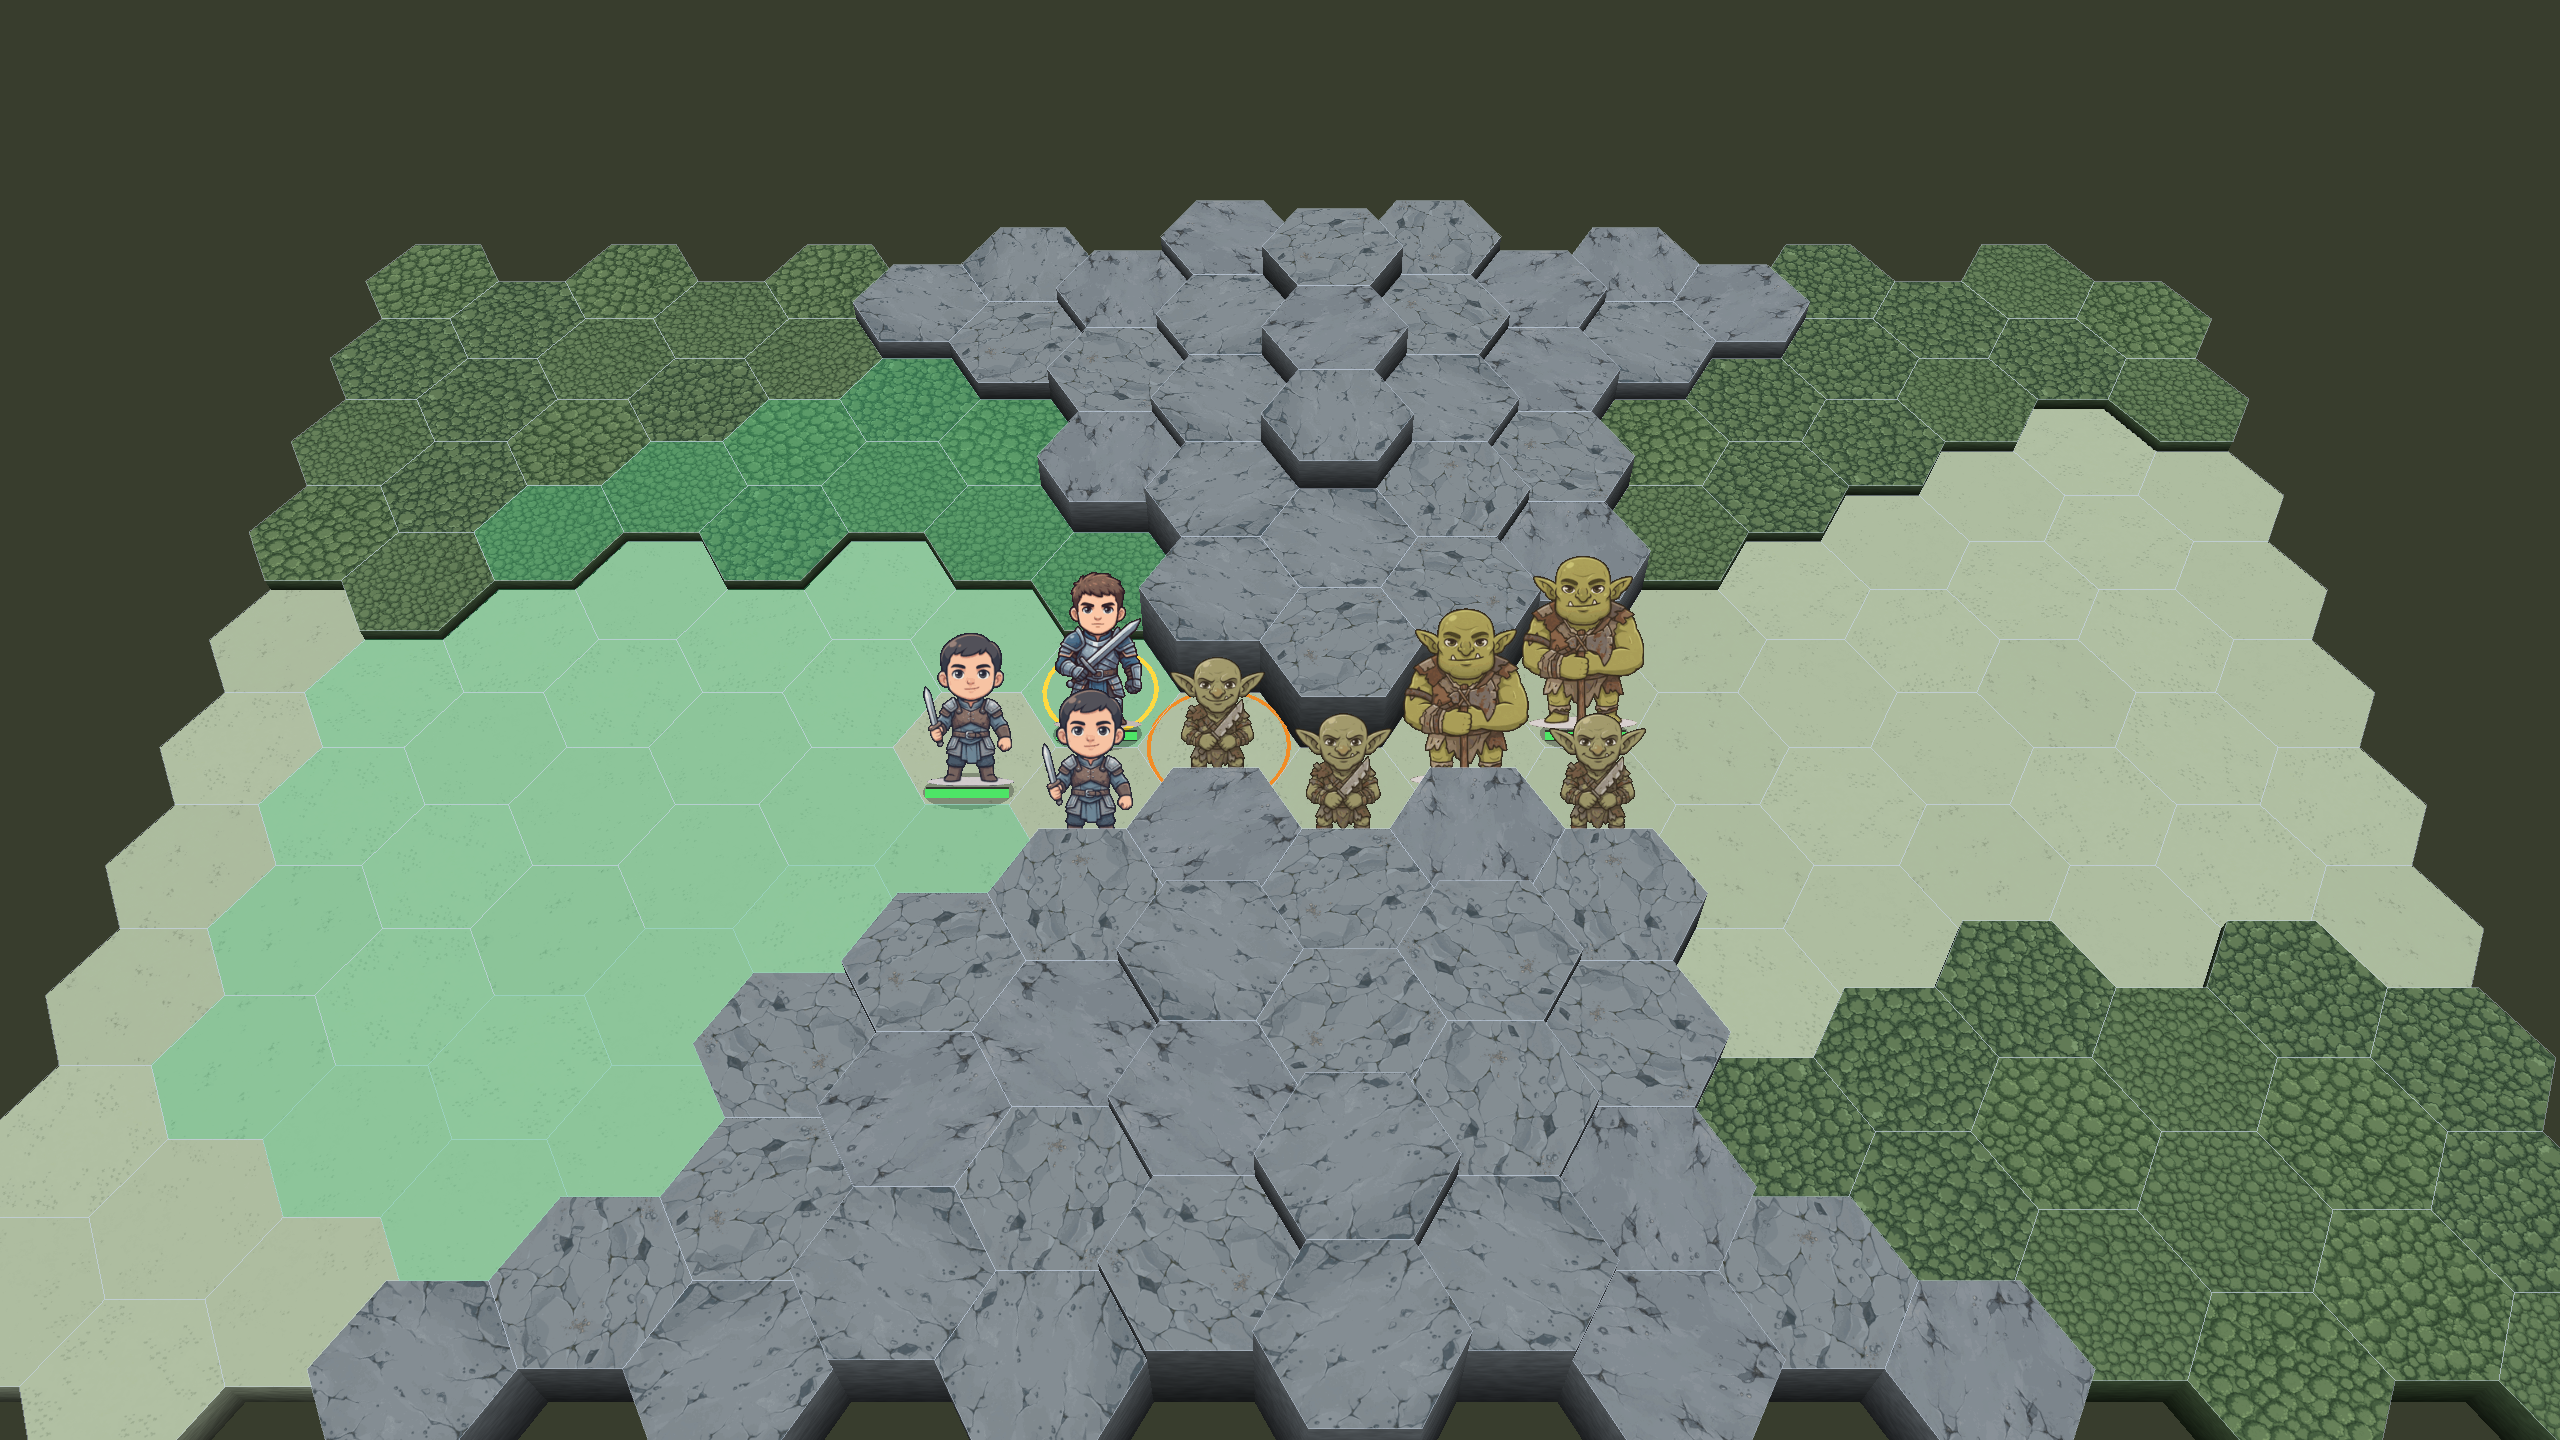
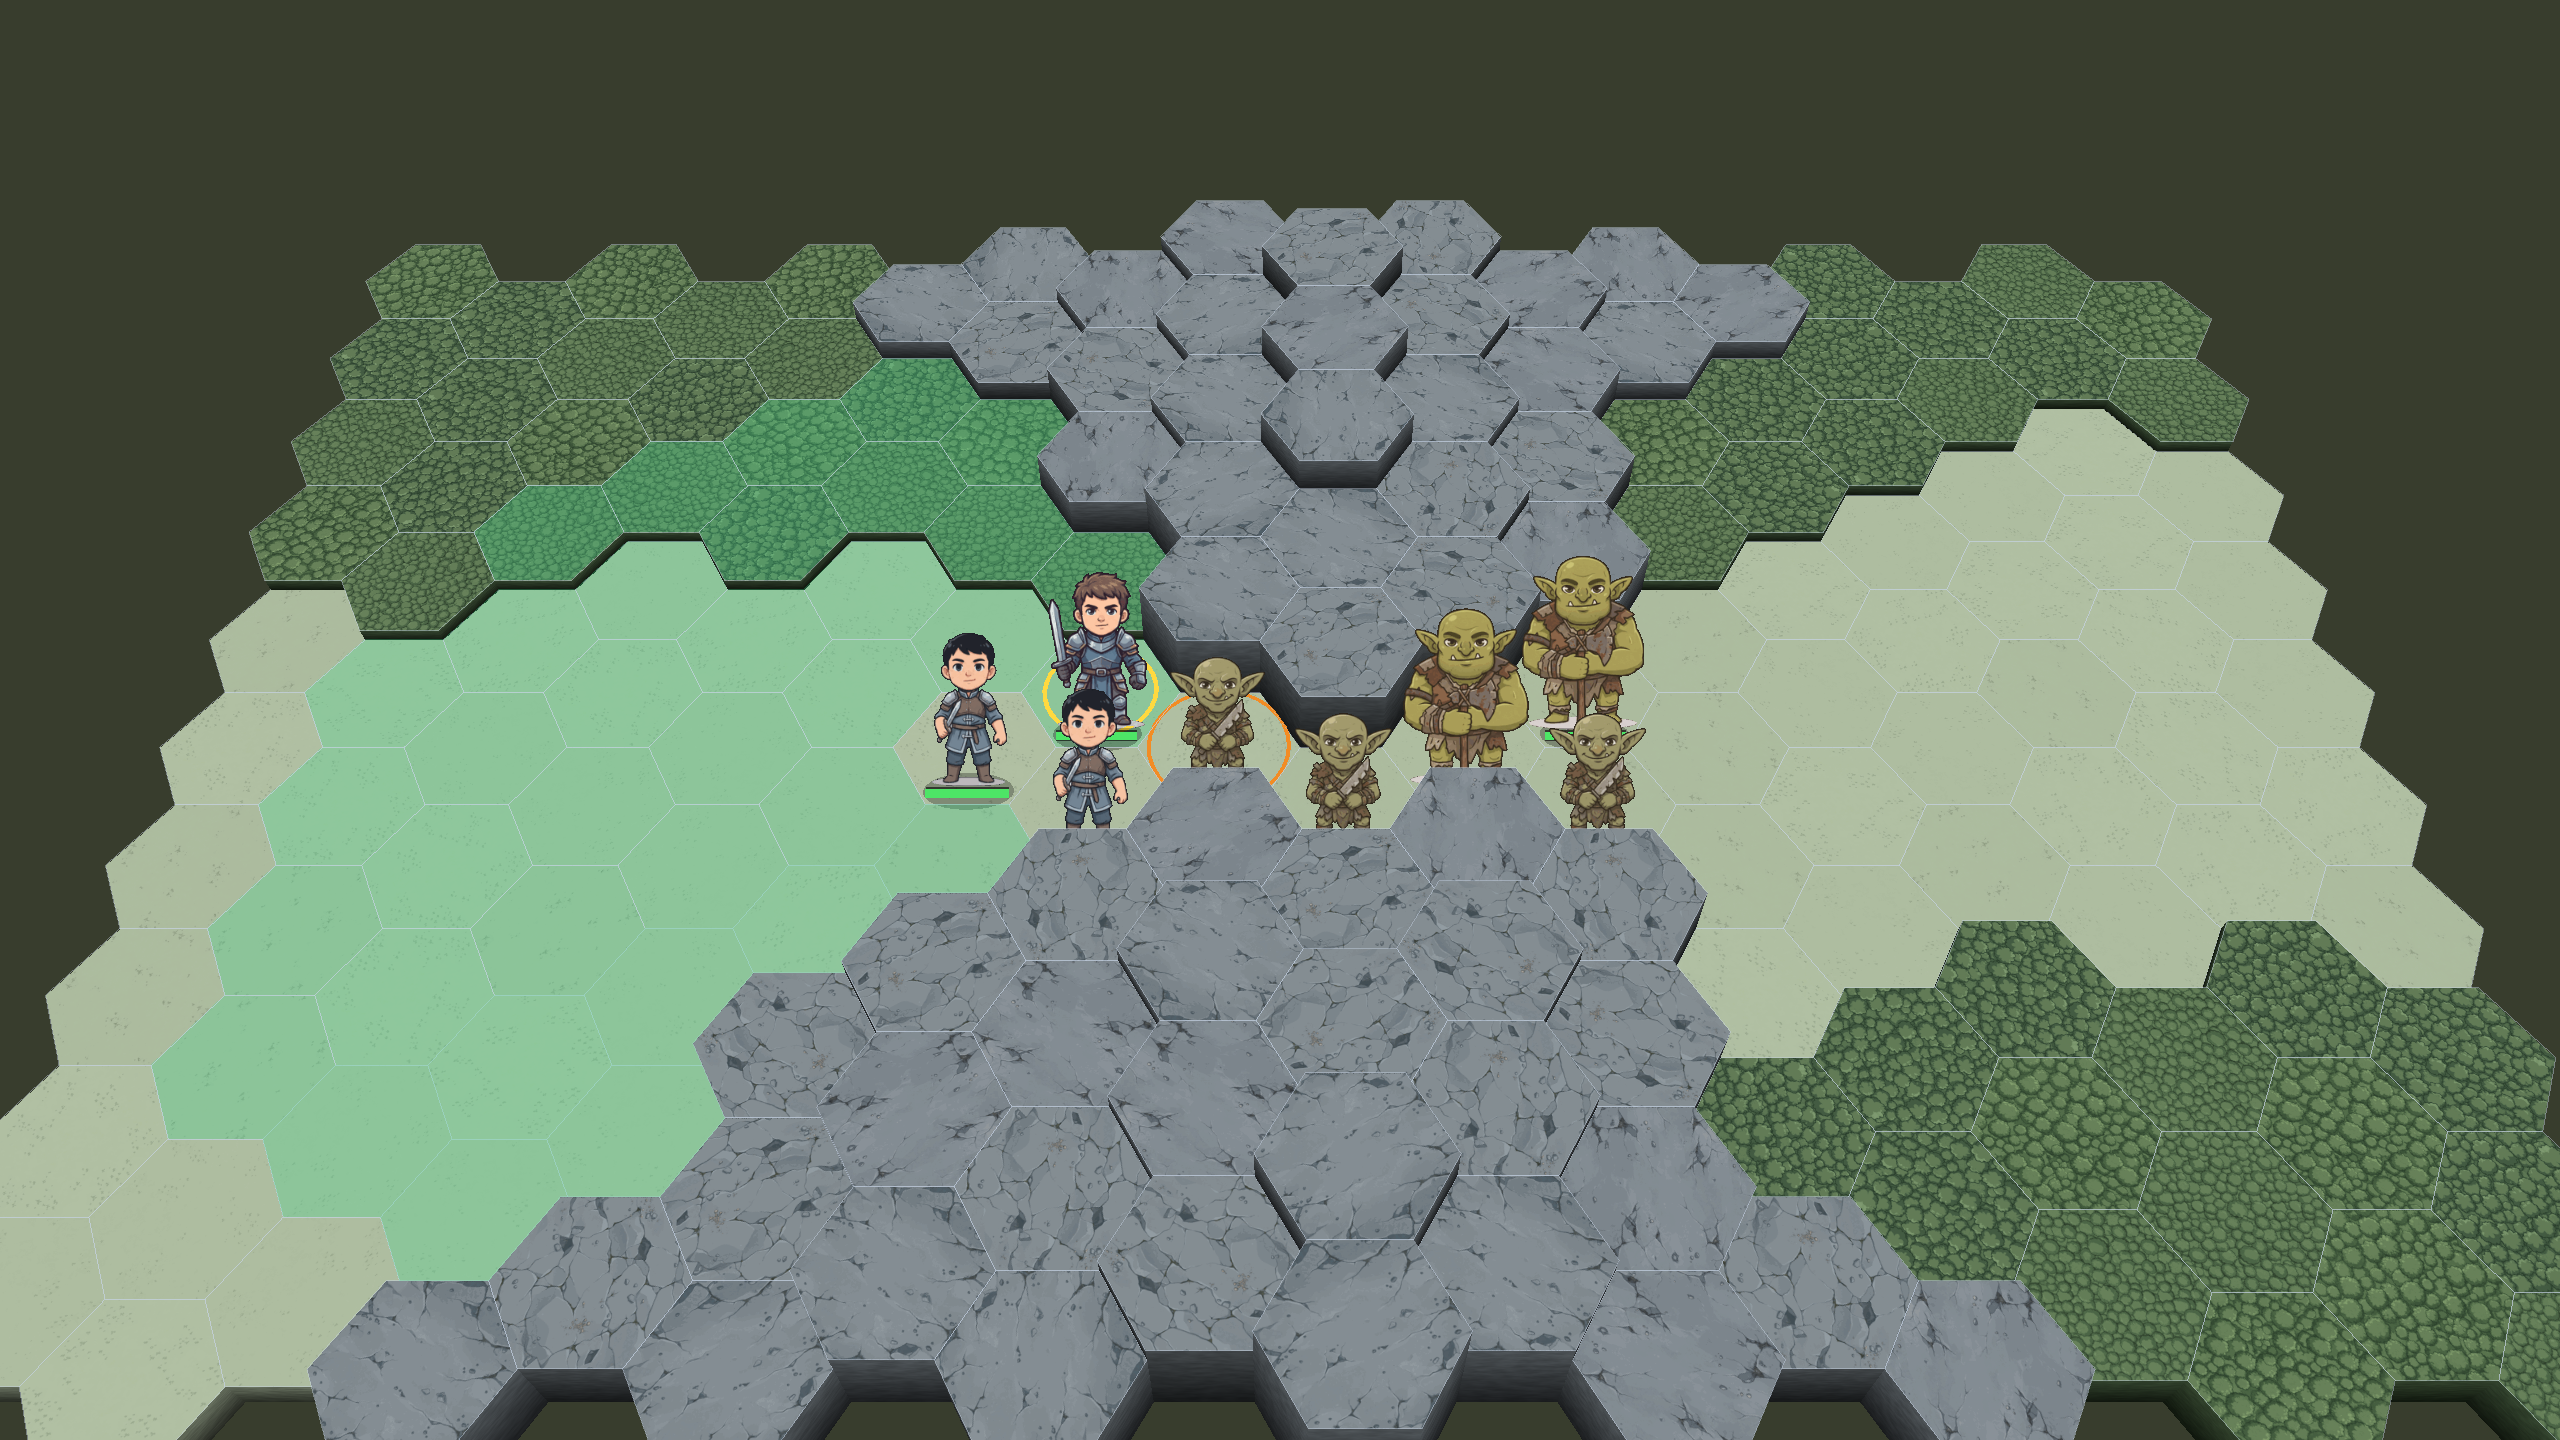
feat(devlog): 1本目の画像1を撮り直し、腕試しステージの記述を Bounties に合わせる
- 描き直したファイター・ノービスで盤の全景を撮り直し
- 腕試しは独立した板（Bounties ボード）の1本目になったので、
  本文にその一言を足す＝以後の更新で2本目を語れる

Changed region(s): [[0.3438, 0.4062, 0.4688, 0.5938]]

diff --git a/channels/itch/devlog/2026-08-24-why-no-dice.md b/channels/itch/devlog/2026-08-24-why-no-dice.md
@@ -17,7 +17,7 @@
 3. 引き算その1：だからサイコロが無い。同じ攻撃は毎回同じ結果。
 4. 引き算その2：だから生産も無い。配られた駒で戦い、失った駒は戻らない。
 5. 残るもの＝位置取り：包囲（Encircled）・支援・地形。チュートリアル1で教える範囲だけを挙げる。
-6. 期待値の設定：今出す体験版はチュートリアル「The Goblin Raid」＝1ステージ1要素で教える章なので、とても簡単。ただし腕試しに、既出の要素だけで組んだ難易度高めのステージを1本入れてある（実体は feature-81 で作る。ビルドに入っていることが公開の前提）。章ができるたびにビルドへ足していく。
+6. 期待値の設定：今出す体験版はチュートリアル「The Goblin Raid」＝1ステージ1要素で教える章なので、とても簡単。ただし腕試しに、既出の要素だけで組んだ難易度高めのステージを1本入れてある。これは物語を持たない単発の板＝Bounties ボード（[roadmap.md](../../../doc/campaign/roadmap.md)）の1本目なので、「板の1本目」であることまで言う＝以後の更新で2本目を語れる。章ができるたびにビルドへ足していく。
 7. 締め：名前の由来＝ラテン語 senarius（6つ一組）＝敵を囲む隣接6ヘックス。次の章ができたらビルドと devlog を更新する。
 
 注意：chess problem の語は「解が1つ」の期待を作りすぎない範囲で使う（marketing.md のタグの節＝Puzzle の期待外れ問題と同じ理屈）。ステージが一本道の詰めではないことは、言い訳がましく否定せず、feels like / closer to の距離感で言う。
@@ -50,7 +50,7 @@ The second is production. There are no factories and no build queues. Both sides
 
 Take away dice and production, and what remains is position. Surround an enemy and it crumbles — the game calls that state Encircled, and it is the heart of Senaris. Stand allies next to each other and they hold. Terrain tilts every exchange. All of it is on the board, and all of it can be read before you commit to anything.
 
-About the demo: the first build is the opening campaign, "The Goblin Raid". It is a tutorial — each stage teaches one idea — so it is, frankly, very easy. That is by design; it exists to hand you the vocabulary. For anyone who wants an actual fight, the build also includes one extra stage built from the same pieces, tuned to hurt. That one is the real pitch.
+About the demo: the first build is the opening campaign, "The Goblin Raid". It is a tutorial — each stage teaches one idea — so it is, frankly, very easy. That is by design; it exists to hand you the vocabulary. For anyone who wants an actual fight, the build also includes one extra stage built from the same pieces and tuned to hurt — the first of a side board of standalone challenge maps. That one is the real pitch.
 
 One last thing, about the name. "Senaris" comes from the Latin senarius — a set of six. On a hex grid, six is the number of hexes around any unit: a full encirclement. The game's favorite move is hidden in its name.
 
